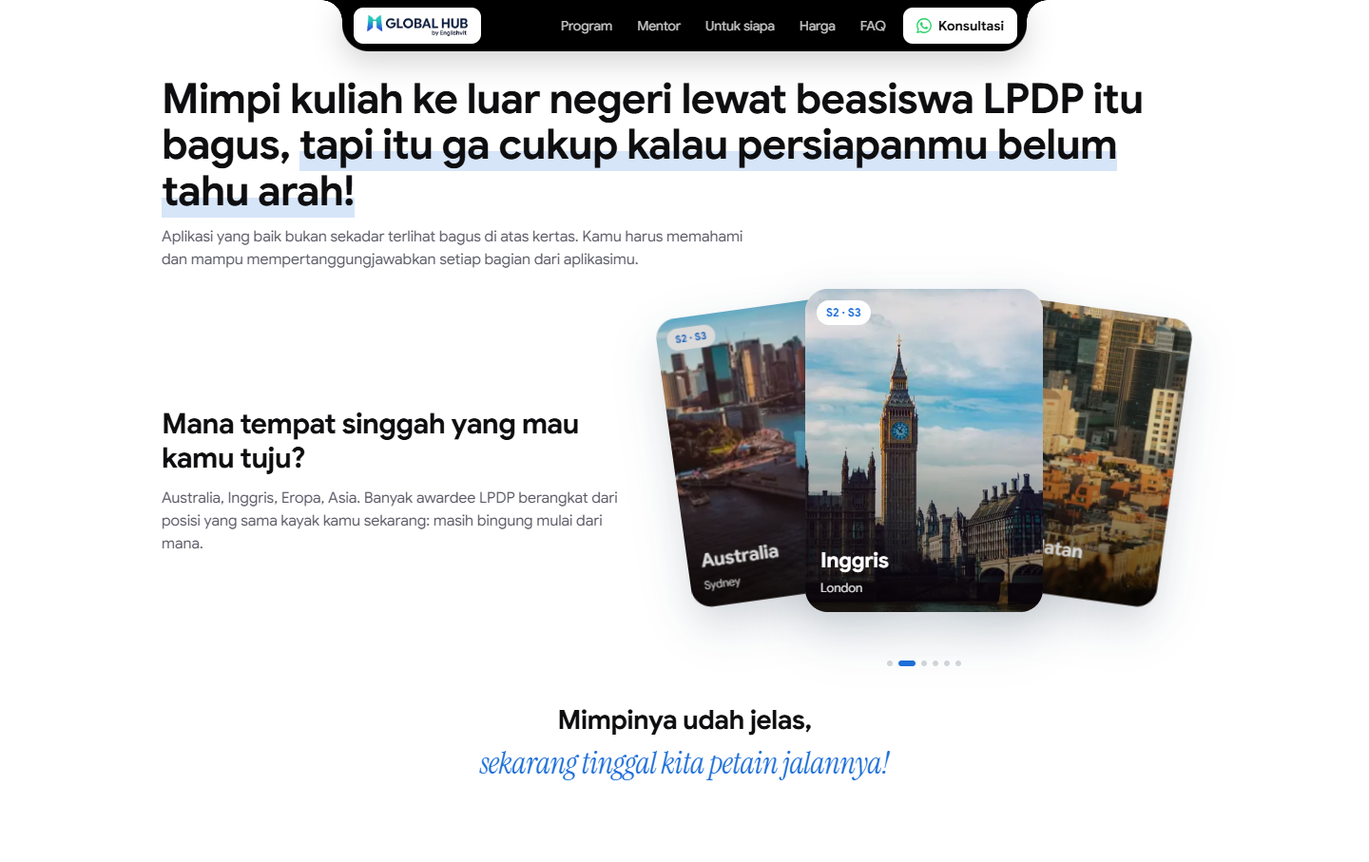
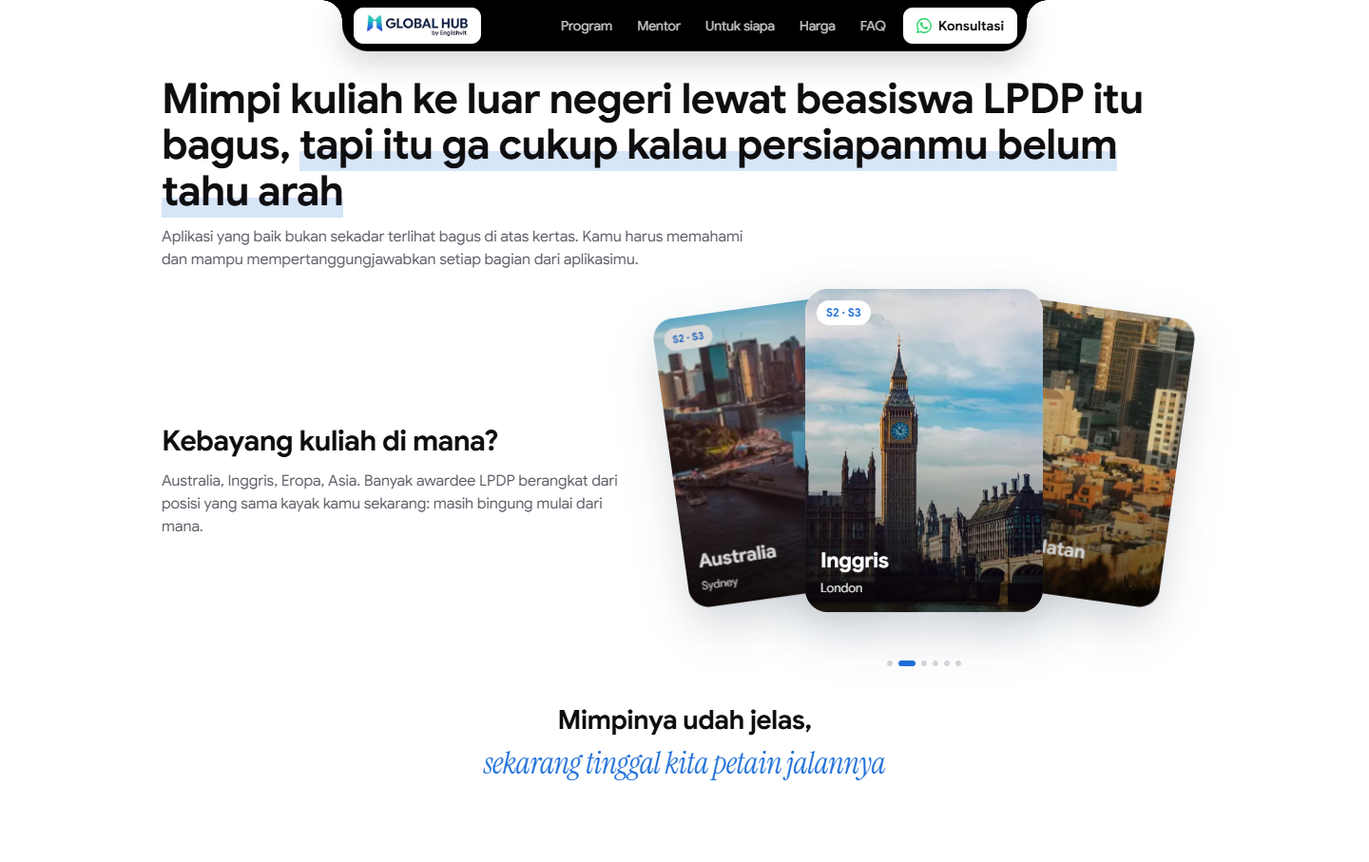
feat(lpdp): copy revision v4 (hero question, no exclamation marks in headings)

diff --git a/schoboot/index.html b/schoboot/index.html
@@ -780,6 +780,10 @@ footer p + p{margin-top:6px}
 .mimpi__head{margin-bottom:26px}
 .mimpi__head .lead{max-width:640px}
 .dest__h{font-size:clamp(22px,5.6vw,30px);line-height:1.2;font-weight:700;letter-spacing:-.02em;color:var(--ink);margin:0}
+
+/* Hero v4: baris kedua headline lebih kecil (kalimat panjang) */
+.h1 .line--sm{font-size:.6em;line-height:1.12;margin-top:.35em;max-width:16em;margin-left:auto;margin-right:auto}
+.rm-hint{justify-content:flex-start}
 </style>
 </head>
 <body data-variant="LPDP-BOOTCAMP">
@@ -822,9 +826,9 @@ footer p + p{margin-top:6px}
   <!-- Video burung sementara dilepas (permintaan tim). File media/birds*.mp4 dan script-nya masih ada; untuk memasang lagi, kembalikan <video class="hero__birds" muted loop playsinline preload="none" aria-hidden="true" tabindex="-1" data-src="media/birds.mp4"></video> di sini. -->
   <div class="wrap hero__inner">
     <span class="eyebrow eyebrow--hero"><i></i>LPDP Preparation Bootcamp · Januari 2027</span>
-    <h1 class="h1" id="h1" aria-label="Beasiswa LPDP 2027 akan datang, mulai persiapanmu dari sekarang!">
-      <span class="line">Beasiswa LPDP 2027 akan datang,</span>
-      <span class="line line--serif">mulai persiapanmu dari sekarang!</span>
+    <h1 class="h1" id="h1" aria-label="Kenapa harus kamu? Kalau panelis beasiswa LPDP tanya gitu, kamu udah ada jawabannya?">
+      <span class="line">"Kenapa harus kamu?"</span>
+      <span class="line line--serif line--sm">Kalau panelis beasiswa LPDP tanya gitu, kamu udah ada jawabannya?</span>
     </h1>
     <script>
     /* Varian tombol ?btn=orange, lalu headline "diketik": huruf muncul satu per satu (fade) dengan kursor berkedip.
@@ -877,8 +881,7 @@ footer p + p{margin-top:6px}
 <section class="sec sec--sunset" id="info">
   <div class="wrap fade-up">
     <p class="jr__eyebrow">More than scholarship information</p>
-    <!-- TODO [V]: angka "99%" belum ada sumbernya. Ganti dengan data resmi atau hapus angkanya sebelum dipakai di iklan. -->
-    <h2 class="h2 reveal">99% Kandidat Gagal Karena <span class="hl">Kurang Persiapan Yang Matang!</span></h2>
+    <h2 class="h2 reveal">Banyak kandidat gagal karena <span class="hl">persiapannya kurang matang</span></h2>
     <p class="jr__sub">Udah nonton belasan video "tips lolos LPDP", simpan puluhan postingan, tapi pas mau mulai tetap bingung: esai dulu, skor bahasa dulu, atau surat rekomendasi dulu? Mulai perjalananmu, pelajari lebih detail!</p>
 
     <div class="jr" data-jr data-dir="right">
@@ -886,7 +889,7 @@ footer p + p{margin-top:6px}
         <div class="jr__stage" role="tablist" aria-label="4 hal yang bikin kandidat LPDP belum siap">
           <svg class="jr__art" viewBox="0 0 600 560" aria-hidden="true" focusable="false"><defs><linearGradient id="jrFill" x1="0" y1="1" x2="1" y2="0"><stop offset="0" stop-color="#1E88E5"/><stop offset="1" stop-color="#14B8A6"/></linearGradient><pattern id="jrDots" width="20" height="20" patternUnits="userSpaceOnUse"><circle cx="2" cy="2" r="1.2" fill="#C9DCF3"/></pattern></defs><rect width="600" height="560" fill="url(#jrDots)" opacity=".7"/><path d="M-20,420 C80,370 170,450 280,420 C380,390 420,470 620,430 L620,580 L-20,580 Z" fill="#E3F4EA"/><path d="M380,510 C460,540 560,520 620,480 L620,360 C560,340 470,370 420,400 C380,430 350,490 380,510 Z" fill="#FFF3D6"/><path d="M40,170 C60,120 150,110 190,150 C230,190 200,250 140,256 C80,262 24,220 40,170 Z" fill="#EAF3FF"/><g transform="translate(120,196) scale(0.75)" fill="#fff" opacity="1"><ellipse rx="46" ry="16"/><circle cx="-15" cy="-9" r="18"/><circle cx="14" cy="-14" r="22"/></g><ellipse cx="500" cy="462" rx="70" ry="20" fill="#CDEBD8"/><g transform="translate(500,460)"><rect x="-3" y="-66" width="6" height="68" rx="3" fill="#0B2545"/><path class="jr-flag" d="M3,-64 L46,-53 L3,-42 Z" fill="#FDB913" stroke="#0B2545" stroke-width="2" stroke-linejoin="round"/></g><g transform="translate(150,90) scale(0.7)" fill="#fff" opacity="1"><ellipse rx="46" ry="16"/><circle cx="-15" cy="-9" r="18"/><circle cx="14" cy="-14" r="22"/></g><g transform="translate(560,250) scale(0.55)" fill="#fff" opacity="1"><ellipse rx="46" ry="16"/><circle cx="-15" cy="-9" r="18"/><circle cx="14" cy="-14" r="22"/></g><path d="M230,82 l26,-9 l-14,15 z M242,88 l-3,7 l-2,-9 z" fill="#fff" stroke="#0B2545" stroke-width="1.6" stroke-linejoin="round" opacity=".8"/><path d="M214,94 C200,100 190,112 176,116" fill="none" stroke="#0B2545" stroke-width="1.4" stroke-dasharray="3 5" opacity=".4"/><g transform="translate(420,120) scale(0.7)"><path class="jr-tw" d="M0,-10 C1.6,-2 2,-1.6 10,0 C2,1.6 1.6,2 0,10 C-1.6,2 -2,1.6 -10,0 C-2,-1.6 -1.6,-2 0,-10 Z" fill="#FDB913"/></g><g transform="translate(90,320) scale(0.5)"><path class="jr-tw2" d="M0,-10 C1.6,-2 2,-1.6 10,0 C2,1.6 1.6,2 0,10 C-1.6,2 -2,1.6 -10,0 C-2,-1.6 -1.6,-2 0,-10 Z" fill="#FF8040"/></g><g transform="translate(560,380) scale(0.55)"><path class="jr-tw2" d="M0,-10 C1.6,-2 2,-1.6 10,0 C2,1.6 1.6,2 0,10 C-1.6,2 -2,1.6 -10,0 C-2,-1.6 -1.6,-2 0,-10 Z" fill="#FDB913"/></g><path d="M60,92 C76.5,105.2 98.3,160 150,164 C201.7,168 282.6,96.4 342,114 C401.4,131.6 482.4,214.2 474,260 C465.6,305.8 291.2,325.9 296,364 C300.8,402.1 462.6,448.9 500,468" fill="none" stroke="#fff" stroke-width="20" stroke-linecap="round" stroke-linejoin="round"/><path d="M60,92 C76.5,105.2 98.3,160 150,164 C201.7,168 282.6,96.4 342,114 C401.4,131.6 482.4,214.2 474,260 C465.6,305.8 291.2,325.9 296,364 C300.8,402.1 462.6,448.9 500,468" fill="none" stroke="#C9DCF3" stroke-width="4" stroke-dasharray="2 10" stroke-linecap="round"/><path d="M60,92 C76.5,105.2 98.3,160 150,164 C201.7,168 282.6,96.4 342,114 C401.4,131.6 482.4,214.2 474,260 C465.6,305.8 291.2,325.9 296,364 C300.8,402.1 462.6,448.9 500,468" class="jr__progress" data-jr-road fill="none" stroke="url(#jrFill)" stroke-width="6" stroke-linecap="round"/><style>.jr-tw{animation:jrTw 2.4s ease-in-out infinite;transform-box:fill-box;transform-origin:center}.jr-tw2{animation:jrTw 2.4s ease-in-out -1.2s infinite;transform-box:fill-box;transform-origin:center}@keyframes jrTw{0%,100%{opacity:.35;transform:scale(.7)}50%{opacity:1;transform:scale(1)}}.jr-flag{animation:jrWave 1.6s ease-in-out infinite;transform-box:fill-box;transform-origin:left center}@keyframes jrWave{50%{transform:skewY(-6deg) scaleX(.92)}}</style></svg>
           <div class="jr__start" style="--x:10.00%;--y:16.43%"><span>Mulai jalan dari mana?</span></div>
-          <div class="jr__finish" style="--x:83.33%;--y:83.57%"><span>Tujuan akhir,<br>lolos seleksi<br>beasiswa <em>LPDP!</em></span></div>
+          <div class="jr__finish" style="--x:83.33%;--y:83.57%"><span>Siap daftar<br><em>LPDP 2027!</em></span></div>
           <button type="button" class="jr__stop jr__stop--below" style="--x:25.00%;--y:29.29%" data-step="0" role="tab" id="jr-tab-0" aria-controls="jr-panel" aria-selected="false" tabindex="0"><span class="jr__sticker" aria-hidden="true"><svg viewBox="0 0 24 24" width="24" height="24"><path d="M4 5.5C6.5 4 9.5 4 12 6c2.5-2 5.5-2 8-.5V19c-2.5-1.5-5.5-1.5-8 .5-2.5-2-5.5-2-8-.5z" fill="none" stroke="currentColor" stroke-width="2.2" stroke-linejoin="round"/><path d="M12 6v13.5" stroke="currentColor" stroke-width="2.2"/></svg><i>01</i></span><span class="jr__label">Program studi</span></button>
 <button type="button" class="jr__stop jr__stop--above" style="--x:57.00%;--y:20.36%" data-step="1" role="tab" id="jr-tab-1" aria-controls="jr-panel" aria-selected="false" tabindex="-1"><span class="jr__sticker" aria-hidden="true"><svg viewBox="0 0 24 24" width="24" height="24"><path d="M4 20l1-4L16 5l3 3L8 19z" fill="none" stroke="currentColor" stroke-width="2.2" stroke-linejoin="round"/><path d="M14 7l3 3M4 20h16" stroke="currentColor" stroke-width="2.2" stroke-linecap="round"/></svg><i>02</i></span><span class="jr__label">Esai</span></button>
 <button type="button" class="jr__stop jr__stop--left" style="--x:79.00%;--y:46.43%" data-step="2" role="tab" id="jr-tab-2" aria-controls="jr-panel" aria-selected="false" tabindex="-1"><span class="jr__sticker" aria-hidden="true"><svg viewBox="0 0 24 24" width="24" height="24"><path d="M12 3l2.6 5.6 6 .7-4.5 4.1 1.2 6L12 16.4 6.7 19.4l1.2-6L3.4 9.3l6-.7z" fill="currentColor"/></svg><i>03</i></span><span class="jr__label">Pengalaman</span></button>
@@ -917,12 +920,12 @@ footer p + p{margin-top:6px}
 <!-- Section 3 (mimpi): sesudah masalah, sebelum peta 4 sesi. Kalimat jembatan di bawah mengarah ke peta program. -->
 <section class="sec sec--sea" id="mimpi" aria-labelledby="mimpi-title">
   <div class="wrap fade-up mimpi__head">
-    <h2 class="h2 reveal" id="mimpi-title">Mimpi kuliah ke luar negeri lewat beasiswa LPDP itu bagus, <span class="hl">tapi itu ga cukup kalau persiapanmu belum tahu arah!</span></h2>
+    <h2 class="h2 reveal" id="mimpi-title">Mimpi kuliah ke luar negeri lewat beasiswa LPDP itu bagus, <span class="hl">tapi itu ga cukup kalau persiapanmu belum tahu arah</span></h2>
     <p class="lead">Aplikasi yang baik bukan sekadar terlihat bagus di atas kertas. Kamu harus memahami dan mampu mempertanggungjawabkan setiap bagian dari aplikasimu.</p>
   </div>
   <div class="wrap fade-up dest">
     <div>
-      <h3 class="dest__h reveal" id="dest-title">Mana tempat singgah yang mau kamu tuju?</h3>
+      <h3 class="dest__h reveal" id="dest-title">Kebayang kuliah di mana?</h3>
       <p class="lead">Australia, Inggris, Eropa, Asia. Banyak awardee LPDP berangkat dari posisi yang sama kayak kamu sekarang: masih bingung mulai dari mana.</p>
     </div>
     <div>
@@ -938,7 +941,7 @@ footer p + p{margin-top:6px}
     </div>
   </div>
   <!-- Kalimat jembatan ke peta 4 sesi (#program) -->
-  <p class="wrap bridge reveal">Mimpinya udah jelas, <span>sekarang tinggal kita petain jalannya!</span></p>
+  <p class="wrap bridge reveal">Mimpinya udah jelas, <span>sekarang tinggal kita petain jalannya</span></p>
 </section>
 <!-- /§destinations -->
 
@@ -947,8 +950,9 @@ footer p + p{margin-top:6px}
      klik kartu/pin untuk buka detail (popover di desktop, bottom sheet di HP), titik "Kamu di sini" berjalan ke sesi yang dipilih. -->
 <section class="sec" id="program">
   <div class="wrap fade-up">
-    <h2 class="h2 reveal">Kita bantu kamu mewujudkan mimpi kuliah di negara maju itu!</h2>
-    <p class="rm-hint"><span aria-hidden="true">?</span>Mulai perjalananmu buat lihat isi sesinya dan apa yang kamu bawa pulang.</p>
+    <!-- Judul section dihapus (permintaan tim): kalimat jembatan di akhir section 3 jadi pembuka. Judul tetap ada untuk pembaca layar. -->
+    <h2 class="sr">Isi 4 sesi LPDP Preparation Bootcamp</h2>
+    <p class="rm-hint">Mulai perjalananmu buat lihat isi sesinya dan apa yang kamu bawa pulang.</p>
     <!--
       Judul, tanggal & isi 4 sesi dari dokumen "Revision copy per section" (turunan poster PM "LPDP Preparation in January 2027").
       TODO [V] kurikulum: "Mengenal seleksi substansi" dan "Persiapan menghadapi pertanyaan seleksi" dipindah dari Sesi 3 ke Sesi 4
@@ -1110,7 +1114,7 @@ footer p + p{margin-top:6px}
         </ul>
         <!-- TODO [V]: minta mentor review tips ini -->
         <div class="rm-tip"><span class="rm-tip__q">Contoh pertanyaan: "Kenapa kamu memilih jurusan ini?"</span><span class="rm-tip__a"><b>Tips:</b> hubungkan ke masalah nyata yang pernah kamu temui, bukan cuma minat pribadi.</span></div>
-        <p class="rm-take"><b>Kamu bawa pulang:</b> Bekal persiapan wawancara dari awardee yang pernah duduk di bangku kuliah yang sama.</p>
+        <p class="rm-take"><b>Kamu bawa pulang:</b> Bekal persiapan wawancara dari awardee yang pernah duduk di kursi wawancara yang sama.</p>
       </div>
     </div>
   </div>
@@ -1169,7 +1173,7 @@ footer p + p{margin-top:6px}
 <!-- §mentor -->
 <section class="sec sec--white" id="mentor">
   <div class="wrap fade-up">
-    <h2 class="h2 reveal">Dipandu mentor awardee LPDP langsung!</h2>
+    <h2 class="h2 reveal">Dipandu mentor awardee LPDP langsung</h2>
     <p class="lead">Mereka pernah bingung milih program studi, nulis ulang esai, dan deg-degan nunggu hasil seleksi. Sekarang mereka yang bantu kamu nyiapinnya.</p>
     <!-- Data mentor dari globalhub.id/mentors (program Study Abroad, label "LPDP Awardee" sesuai situs resmi). Logo LPDP sengaja tidak dipakai, cukup teks.
          TODO [V]: mentor mana yang benar-benar memandu SchoBoot, dan izin tampil di halaman ini. -->
@@ -1191,7 +1195,7 @@ footer p + p{margin-top:6px}
   <div class="wrap fade-up">
     <!-- Ilustrasi persona (SVG animasi dari tim, dipasang lewat <img>). Desktop: kartu miring mengikuti kursor; HP: geser dengan indikator titik. -->
     <h2 class="h2 reveal">Sekarang kamu di posisi yang mana?</h2>
-    <p class="lead">Scholarship bootcamp LPDP preparation dibikin buat kamu yang…</p>
+    <p class="lead">LPDP Preparation Bootcamp dibikin buat kamu yang…</p>
     <div class="personas">
       <article class="persona reveal">
         <div class="persona__art"><img src="media/persona/persona-1-baru-mulai.svg" width="480" height="300" alt="" loading="lazy" decoding="async"></div>
@@ -1315,7 +1319,7 @@ footer p + p{margin-top:6px}
   <div class="wrap fade-up">
     <h2 class="h2 reveal">Yang sering ditanyain</h2>
     <div class="faq">
-      <details><summary>Ini program resmi LPDP?</summary><p>Bukan. Scholarship Bootcamp LPDP Preparation adalah program persiapan dari Global Hub by Englishvit, buat bantu kamu ningkatin peluang lolos seleksi beasiswa LPDP 2027. Global Hub tidak berafiliasi dengan LPDP.</p></details>
+      <details><summary>Ini program resmi LPDP?</summary><p>Bukan. LPDP Preparation Bootcamp adalah program persiapan dari Global Hub by Englishvit, buat bantu kamu nyiapin aplikasi LPDP dengan urutan yang jelas. Global Hub tidak berafiliasi dengan LPDP.</p></details>
       <details><summary>Kapan kelasnya?</summary><p>Selasa 12 Jan 2027, Kamis 14 Jan 2027, Selasa 19 Jan 2027, dan Kamis 21 Jan 2027. Tiap sesi berdurasi 60 menit.</p></details>
       <details><summary>Kelasnya lewat apa?</summary><p>Kelas dilaksanakan melalui Zoom. Link dikirim setelah pembayaranmu terverifikasi.</p></details>
       <details><summary>Kalau nggak bisa hadir?</summary><p>Gausah khawatir, semua sesi direkam jadi kamu bisa nonton ulang kelasnya selama 30 hari.</p></details>
@@ -1334,7 +1338,7 @@ footer p + p{margin-top:6px}
 <!-- §closing -->
 <section class="closing">
   <div class="wrap fade-up">
-    <h2 class="h2">Jangan ragu-ragu ambil persiapan beasiswa LPDP dari sekarang, <span>kuota terbatas!</span></h2>
+    <h2 class="h2">Pendaftaran LPDP 2027 belum dibuka. <span>Persiapanmu bisa dimulai per Januari 2027.</span></h2>
     <p class="closing__sub">Yang mulai lebih awal punya waktu buat benerin esai, ngejar skor, dan latihan wawancara. Yang nunggu pengumuman, ngerjain semuanya sekaligus.</p>
     <!-- Satu CTA saja: konsultasi WhatsApp. Checkout ada di kartu harga. -->
     <a href="#" class="btn btn--wa" data-cta="whatsapp" data-pos="closing-konsultasi" data-msg="Halo kak, aku mau konsultasi dulu soal bootcamp LPDP Global Hub. Aku lagi di tahap ___." data-marketing-placement="closing-konsultasi"><svg width="20" height="20" viewBox="0 0 24 24" fill="currentColor" aria-hidden="true"><path d="M17.47 14.38c-.3-.15-1.76-.87-2.03-.97-.27-.1-.47-.15-.67.15-.2.3-.77.97-.94 1.17-.17.2-.35.22-.65.07-.3-.15-1.26-.46-2.4-1.48-.89-.79-1.49-1.77-1.66-2.07-.17-.3-.02-.46.13-.61.13-.13.3-.35.45-.52.15-.17.2-.3.3-.5.1-.2.05-.37-.03-.52-.07-.15-.67-1.61-.92-2.21-.24-.58-.49-.5-.67-.51h-.57c-.2 0-.52.07-.79.37-.27.3-1.04 1.02-1.04 2.48s1.07 2.88 1.21 3.08c.15.2 2.1 3.2 5.08 4.49.71.31 1.26.49 1.69.63.71.23 1.36.2 1.87.12.57-.09 1.76-.72 2.01-1.41.25-.7.25-1.29.17-1.41-.07-.13-.27-.2-.57-.35zM12.04 21.8h-.01a9.8 9.8 0 0 1-5-1.37l-.36-.21-3.72.98 1-3.63-.24-.37a9.8 9.8 0 0 1-1.5-5.22c0-5.42 4.41-9.83 9.84-9.83 2.63 0 5.1 1.03 6.95 2.88a9.77 9.77 0 0 1 2.88 6.96c0 5.42-4.41 9.83-9.84 9.83zm8.37-18.2A11.75 11.75 0 0 0 12.04.13C5.5.13.18 5.45.18 12c0 2.09.55 4.13 1.59 5.93L.08 24l6.22-1.63a11.83 11.83 0 0 0 5.73 1.46h.01c6.54 0 11.86-5.32 11.87-11.87a11.8 11.8 0 0 0-3.5-8.37z"/></svg>Konsultasi dulu!</a>

diff --git a/src/schoboot.html b/src/schoboot.html
@@ -61,9 +61,9 @@
   <!-- Video burung sementara dilepas (permintaan tim). File media/birds*.mp4 dan script-nya masih ada; untuk memasang lagi, kembalikan <video class="hero__birds" muted loop playsinline preload="none" aria-hidden="true" tabindex="-1" data-src="media/birds.mp4"></video> di sini. -->
   <div class="wrap hero__inner">
     <span class="eyebrow eyebrow--hero"><i></i>LPDP Preparation Bootcamp · Januari 2027</span>
-    <h1 class="h1" id="h1" aria-label="Beasiswa LPDP 2027 akan datang, mulai persiapanmu dari sekarang!">
-      <span class="line">Beasiswa LPDP 2027 akan datang,</span>
-      <span class="line line--serif">mulai persiapanmu dari sekarang!</span>
+    <h1 class="h1" id="h1" aria-label="Kenapa harus kamu? Kalau panelis beasiswa LPDP tanya gitu, kamu udah ada jawabannya?">
+      <span class="line">"Kenapa harus kamu?"</span>
+      <span class="line line--serif line--sm">Kalau panelis beasiswa LPDP tanya gitu, kamu udah ada jawabannya?</span>
     </h1>
     <script>
     /* Varian tombol ?btn=orange, lalu headline "diketik": huruf muncul satu per satu (fade) dengan kursor berkedip.
@@ -116,8 +116,7 @@
 <section class="sec sec--sunset" id="info">
   <div class="wrap fade-up">
     <p class="jr__eyebrow">More than scholarship information</p>
-    <!-- TODO [V]: angka "99%" belum ada sumbernya. Ganti dengan data resmi atau hapus angkanya sebelum dipakai di iklan. -->
-    <h2 class="h2 reveal">99% Kandidat Gagal Karena <span class="hl">Kurang Persiapan Yang Matang!</span></h2>
+    <h2 class="h2 reveal">Banyak kandidat gagal karena <span class="hl">persiapannya kurang matang</span></h2>
     <p class="jr__sub">Udah nonton belasan video "tips lolos LPDP", simpan puluhan postingan, tapi pas mau mulai tetap bingung: esai dulu, skor bahasa dulu, atau surat rekomendasi dulu? Mulai perjalananmu, pelajari lebih detail!</p>
 
     <div class="jr" data-jr data-dir="right">
@@ -125,7 +124,7 @@
         <div class="jr__stage" role="tablist" aria-label="4 hal yang bikin kandidat LPDP belum siap">
           <svg class="jr__art" viewBox="0 0 600 560" aria-hidden="true" focusable="false"><defs><linearGradient id="jrFill" x1="0" y1="1" x2="1" y2="0"><stop offset="0" stop-color="#1E88E5"/><stop offset="1" stop-color="#14B8A6"/></linearGradient><pattern id="jrDots" width="20" height="20" patternUnits="userSpaceOnUse"><circle cx="2" cy="2" r="1.2" fill="#C9DCF3"/></pattern></defs><rect width="600" height="560" fill="url(#jrDots)" opacity=".7"/><path d="M-20,420 C80,370 170,450 280,420 C380,390 420,470 620,430 L620,580 L-20,580 Z" fill="#E3F4EA"/><path d="M380,510 C460,540 560,520 620,480 L620,360 C560,340 470,370 420,400 C380,430 350,490 380,510 Z" fill="#FFF3D6"/><path d="M40,170 C60,120 150,110 190,150 C230,190 200,250 140,256 C80,262 24,220 40,170 Z" fill="#EAF3FF"/><g transform="translate(120,196) scale(0.75)" fill="#fff" opacity="1"><ellipse rx="46" ry="16"/><circle cx="-15" cy="-9" r="18"/><circle cx="14" cy="-14" r="22"/></g><ellipse cx="500" cy="462" rx="70" ry="20" fill="#CDEBD8"/><g transform="translate(500,460)"><rect x="-3" y="-66" width="6" height="68" rx="3" fill="#0B2545"/><path class="jr-flag" d="M3,-64 L46,-53 L3,-42 Z" fill="#FDB913" stroke="#0B2545" stroke-width="2" stroke-linejoin="round"/></g><g transform="translate(150,90) scale(0.7)" fill="#fff" opacity="1"><ellipse rx="46" ry="16"/><circle cx="-15" cy="-9" r="18"/><circle cx="14" cy="-14" r="22"/></g><g transform="translate(560,250) scale(0.55)" fill="#fff" opacity="1"><ellipse rx="46" ry="16"/><circle cx="-15" cy="-9" r="18"/><circle cx="14" cy="-14" r="22"/></g><path d="M230,82 l26,-9 l-14,15 z M242,88 l-3,7 l-2,-9 z" fill="#fff" stroke="#0B2545" stroke-width="1.6" stroke-linejoin="round" opacity=".8"/><path d="M214,94 C200,100 190,112 176,116" fill="none" stroke="#0B2545" stroke-width="1.4" stroke-dasharray="3 5" opacity=".4"/><g transform="translate(420,120) scale(0.7)"><path class="jr-tw" d="M0,-10 C1.6,-2 2,-1.6 10,0 C2,1.6 1.6,2 0,10 C-1.6,2 -2,1.6 -10,0 C-2,-1.6 -1.6,-2 0,-10 Z" fill="#FDB913"/></g><g transform="translate(90,320) scale(0.5)"><path class="jr-tw2" d="M0,-10 C1.6,-2 2,-1.6 10,0 C2,1.6 1.6,2 0,10 C-1.6,2 -2,1.6 -10,0 C-2,-1.6 -1.6,-2 0,-10 Z" fill="#FF8040"/></g><g transform="translate(560,380) scale(0.55)"><path class="jr-tw2" d="M0,-10 C1.6,-2 2,-1.6 10,0 C2,1.6 1.6,2 0,10 C-1.6,2 -2,1.6 -10,0 C-2,-1.6 -1.6,-2 0,-10 Z" fill="#FDB913"/></g><path d="M60,92 C76.5,105.2 98.3,160 150,164 C201.7,168 282.6,96.4 342,114 C401.4,131.6 482.4,214.2 474,260 C465.6,305.8 291.2,325.9 296,364 C300.8,402.1 462.6,448.9 500,468" fill="none" stroke="#fff" stroke-width="20" stroke-linecap="round" stroke-linejoin="round"/><path d="M60,92 C76.5,105.2 98.3,160 150,164 C201.7,168 282.6,96.4 342,114 C401.4,131.6 482.4,214.2 474,260 C465.6,305.8 291.2,325.9 296,364 C300.8,402.1 462.6,448.9 500,468" fill="none" stroke="#C9DCF3" stroke-width="4" stroke-dasharray="2 10" stroke-linecap="round"/><path d="M60,92 C76.5,105.2 98.3,160 150,164 C201.7,168 282.6,96.4 342,114 C401.4,131.6 482.4,214.2 474,260 C465.6,305.8 291.2,325.9 296,364 C300.8,402.1 462.6,448.9 500,468" class="jr__progress" data-jr-road fill="none" stroke="url(#jrFill)" stroke-width="6" stroke-linecap="round"/><style>.jr-tw{animation:jrTw 2.4s ease-in-out infinite;transform-box:fill-box;transform-origin:center}.jr-tw2{animation:jrTw 2.4s ease-in-out -1.2s infinite;transform-box:fill-box;transform-origin:center}@keyframes jrTw{0%,100%{opacity:.35;transform:scale(.7)}50%{opacity:1;transform:scale(1)}}.jr-flag{animation:jrWave 1.6s ease-in-out infinite;transform-box:fill-box;transform-origin:left center}@keyframes jrWave{50%{transform:skewY(-6deg) scaleX(.92)}}</style></svg>
           <div class="jr__start" style="--x:10.00%;--y:16.43%"><span>Mulai jalan dari mana?</span></div>
-          <div class="jr__finish" style="--x:83.33%;--y:83.57%"><span>Tujuan akhir,<br>lolos seleksi<br>beasiswa <em>LPDP!</em></span></div>
+          <div class="jr__finish" style="--x:83.33%;--y:83.57%"><span>Siap daftar<br><em>LPDP 2027!</em></span></div>
           <button type="button" class="jr__stop jr__stop--below" style="--x:25.00%;--y:29.29%" data-step="0" role="tab" id="jr-tab-0" aria-controls="jr-panel" aria-selected="false" tabindex="0"><span class="jr__sticker" aria-hidden="true"><svg viewBox="0 0 24 24" width="24" height="24"><path d="M4 5.5C6.5 4 9.5 4 12 6c2.5-2 5.5-2 8-.5V19c-2.5-1.5-5.5-1.5-8 .5-2.5-2-5.5-2-8-.5z" fill="none" stroke="currentColor" stroke-width="2.2" stroke-linejoin="round"/><path d="M12 6v13.5" stroke="currentColor" stroke-width="2.2"/></svg><i>01</i></span><span class="jr__label">Program studi</span></button>
 <button type="button" class="jr__stop jr__stop--above" style="--x:57.00%;--y:20.36%" data-step="1" role="tab" id="jr-tab-1" aria-controls="jr-panel" aria-selected="false" tabindex="-1"><span class="jr__sticker" aria-hidden="true"><svg viewBox="0 0 24 24" width="24" height="24"><path d="M4 20l1-4L16 5l3 3L8 19z" fill="none" stroke="currentColor" stroke-width="2.2" stroke-linejoin="round"/><path d="M14 7l3 3M4 20h16" stroke="currentColor" stroke-width="2.2" stroke-linecap="round"/></svg><i>02</i></span><span class="jr__label">Esai</span></button>
 <button type="button" class="jr__stop jr__stop--left" style="--x:79.00%;--y:46.43%" data-step="2" role="tab" id="jr-tab-2" aria-controls="jr-panel" aria-selected="false" tabindex="-1"><span class="jr__sticker" aria-hidden="true"><svg viewBox="0 0 24 24" width="24" height="24"><path d="M12 3l2.6 5.6 6 .7-4.5 4.1 1.2 6L12 16.4 6.7 19.4l1.2-6L3.4 9.3l6-.7z" fill="currentColor"/></svg><i>03</i></span><span class="jr__label">Pengalaman</span></button>
@@ -156,12 +155,12 @@
 <!-- Section 3 (mimpi): sesudah masalah, sebelum peta 4 sesi. Kalimat jembatan di bawah mengarah ke peta program. -->
 <section class="sec sec--sea" id="mimpi" aria-labelledby="mimpi-title">
   <div class="wrap fade-up mimpi__head">
-    <h2 class="h2 reveal" id="mimpi-title">Mimpi kuliah ke luar negeri lewat beasiswa LPDP itu bagus, <span class="hl">tapi itu ga cukup kalau persiapanmu belum tahu arah!</span></h2>
+    <h2 class="h2 reveal" id="mimpi-title">Mimpi kuliah ke luar negeri lewat beasiswa LPDP itu bagus, <span class="hl">tapi itu ga cukup kalau persiapanmu belum tahu arah</span></h2>
     <p class="lead">Aplikasi yang baik bukan sekadar terlihat bagus di atas kertas. Kamu harus memahami dan mampu mempertanggungjawabkan setiap bagian dari aplikasimu.</p>
   </div>
   <div class="wrap fade-up dest">
     <div>
-      <h3 class="dest__h reveal" id="dest-title">Mana tempat singgah yang mau kamu tuju?</h3>
+      <h3 class="dest__h reveal" id="dest-title">Kebayang kuliah di mana?</h3>
       <p class="lead">Australia, Inggris, Eropa, Asia. Banyak awardee LPDP berangkat dari posisi yang sama kayak kamu sekarang: masih bingung mulai dari mana.</p>
     </div>
     <div>
@@ -177,7 +176,7 @@
     </div>
   </div>
   <!-- Kalimat jembatan ke peta 4 sesi (#program) -->
-  <p class="wrap bridge reveal">Mimpinya udah jelas, <span>sekarang tinggal kita petain jalannya!</span></p>
+  <p class="wrap bridge reveal">Mimpinya udah jelas, <span>sekarang tinggal kita petain jalannya</span></p>
 </section>
 <!-- /§destinations -->
 
@@ -186,8 +185,9 @@
      klik kartu/pin untuk buka detail (popover di desktop, bottom sheet di HP), titik "Kamu di sini" berjalan ke sesi yang dipilih. -->
 <section class="sec" id="program">
   <div class="wrap fade-up">
-    <h2 class="h2 reveal">Kita bantu kamu mewujudkan mimpi kuliah di negara maju itu!</h2>
-    <p class="rm-hint"><span aria-hidden="true">?</span>Mulai perjalananmu buat lihat isi sesinya dan apa yang kamu bawa pulang.</p>
+    <!-- Judul section dihapus (permintaan tim): kalimat jembatan di akhir section 3 jadi pembuka. Judul tetap ada untuk pembaca layar. -->
+    <h2 class="sr">Isi 4 sesi LPDP Preparation Bootcamp</h2>
+    <p class="rm-hint">Mulai perjalananmu buat lihat isi sesinya dan apa yang kamu bawa pulang.</p>
     <!--
       Judul, tanggal & isi 4 sesi dari dokumen "Revision copy per section" (turunan poster PM "LPDP Preparation in January 2027").
       TODO [V] kurikulum: "Mengenal seleksi substansi" dan "Persiapan menghadapi pertanyaan seleksi" dipindah dari Sesi 3 ke Sesi 4
@@ -349,7 +349,7 @@
         </ul>
         <!-- TODO [V]: minta mentor review tips ini -->
         <div class="rm-tip"><span class="rm-tip__q">Contoh pertanyaan: "Kenapa kamu memilih jurusan ini?"</span><span class="rm-tip__a"><b>Tips:</b> hubungkan ke masalah nyata yang pernah kamu temui, bukan cuma minat pribadi.</span></div>
-        <p class="rm-take"><b>Kamu bawa pulang:</b> Bekal persiapan wawancara dari awardee yang pernah duduk di bangku kuliah yang sama.</p>
+        <p class="rm-take"><b>Kamu bawa pulang:</b> Bekal persiapan wawancara dari awardee yang pernah duduk di kursi wawancara yang sama.</p>
       </div>
     </div>
   </div>
@@ -408,7 +408,7 @@
 <!-- §mentor -->
 <section class="sec sec--white" id="mentor">
   <div class="wrap fade-up">
-    <h2 class="h2 reveal">Dipandu mentor awardee LPDP langsung!</h2>
+    <h2 class="h2 reveal">Dipandu mentor awardee LPDP langsung</h2>
     <p class="lead">Mereka pernah bingung milih program studi, nulis ulang esai, dan deg-degan nunggu hasil seleksi. Sekarang mereka yang bantu kamu nyiapinnya.</p>
     <!-- Data mentor dari globalhub.id/mentors (program Study Abroad, label "LPDP Awardee" sesuai situs resmi). Logo LPDP sengaja tidak dipakai, cukup teks.
          TODO [V]: mentor mana yang benar-benar memandu SchoBoot, dan izin tampil di halaman ini. -->
@@ -430,7 +430,7 @@
   <div class="wrap fade-up">
     <!-- Ilustrasi persona (SVG animasi dari tim, dipasang lewat <img>). Desktop: kartu miring mengikuti kursor; HP: geser dengan indikator titik. -->
     <h2 class="h2 reveal">Sekarang kamu di posisi yang mana?</h2>
-    <p class="lead">Scholarship bootcamp LPDP preparation dibikin buat kamu yang…</p>
+    <p class="lead">LPDP Preparation Bootcamp dibikin buat kamu yang…</p>
     <div class="personas">
       <article class="persona reveal">
         <div class="persona__art"><img src="media/persona/persona-1-baru-mulai.svg" width="480" height="300" alt="" loading="lazy" decoding="async"></div>
@@ -554,7 +554,7 @@
   <div class="wrap fade-up">
     <h2 class="h2 reveal">Yang sering ditanyain</h2>
     <div class="faq">
-      <details><summary>Ini program resmi LPDP?</summary><p>Bukan. Scholarship Bootcamp LPDP Preparation adalah program persiapan dari Global Hub by Englishvit, buat bantu kamu ningkatin peluang lolos seleksi beasiswa LPDP 2027. Global Hub tidak berafiliasi dengan LPDP.</p></details>
+      <details><summary>Ini program resmi LPDP?</summary><p>Bukan. LPDP Preparation Bootcamp adalah program persiapan dari Global Hub by Englishvit, buat bantu kamu nyiapin aplikasi LPDP dengan urutan yang jelas. Global Hub tidak berafiliasi dengan LPDP.</p></details>
       <details><summary>Kapan kelasnya?</summary><p>Selasa 12 Jan 2027, Kamis 14 Jan 2027, Selasa 19 Jan 2027, dan Kamis 21 Jan 2027. Tiap sesi berdurasi 60 menit.</p></details>
       <details><summary>Kelasnya lewat apa?</summary><p>Kelas dilaksanakan melalui Zoom. Link dikirim setelah pembayaranmu terverifikasi.</p></details>
       <details><summary>Kalau nggak bisa hadir?</summary><p>Gausah khawatir, semua sesi direkam jadi kamu bisa nonton ulang kelasnya selama 30 hari.</p></details>
@@ -573,7 +573,7 @@
 <!-- §closing -->
 <section class="closing">
   <div class="wrap fade-up">
-    <h2 class="h2">Jangan ragu-ragu ambil persiapan beasiswa LPDP dari sekarang, <span>kuota terbatas!</span></h2>
+    <h2 class="h2">Pendaftaran LPDP 2027 belum dibuka. <span>Persiapanmu bisa dimulai per Januari 2027.</span></h2>
     <p class="closing__sub">Yang mulai lebih awal punya waktu buat benerin esai, ngejar skor, dan latihan wawancara. Yang nunggu pengumuman, ngerjain semuanya sekaligus.</p>
     <!-- Satu CTA saja: konsultasi WhatsApp. Checkout ada di kartu harga. -->
     <a href="#" class="btn btn--wa" data-cta="whatsapp" data-pos="closing-konsultasi" data-msg="Halo kak, aku mau konsultasi dulu soal bootcamp LPDP Global Hub. Aku lagi di tahap ___." data-marketing-placement="closing-konsultasi"><svg width="20" height="20" viewBox="0 0 24 24" fill="currentColor" aria-hidden="true"><path d="M17.47 14.38c-.3-.15-1.76-.87-2.03-.97-.27-.1-.47-.15-.67.15-.2.3-.77.97-.94 1.17-.17.2-.35.22-.65.07-.3-.15-1.26-.46-2.4-1.48-.89-.79-1.49-1.77-1.66-2.07-.17-.3-.02-.46.13-.61.13-.13.3-.35.45-.52.15-.17.2-.3.3-.5.1-.2.05-.37-.03-.52-.07-.15-.67-1.61-.92-2.21-.24-.58-.49-.5-.67-.51h-.57c-.2 0-.52.07-.79.37-.27.3-1.04 1.02-1.04 2.48s1.07 2.88 1.21 3.08c.15.2 2.1 3.2 5.08 4.49.71.31 1.26.49 1.69.63.71.23 1.36.2 1.87.12.57-.09 1.76-.72 2.01-1.41.25-.7.25-1.29.17-1.41-.07-.13-.27-.2-.57-.35zM12.04 21.8h-.01a9.8 9.8 0 0 1-5-1.37l-.36-.21-3.72.98 1-3.63-.24-.37a9.8 9.8 0 0 1-1.5-5.22c0-5.42 4.41-9.83 9.84-9.83 2.63 0 5.1 1.03 6.95 2.88a9.77 9.77 0 0 1 2.88 6.96c0 5.42-4.41 9.83-9.84 9.83zm8.37-18.2A11.75 11.75 0 0 0 12.04.13C5.5.13.18 5.45.18 12c0 2.09.55 4.13 1.59 5.93L.08 24l6.22-1.63a11.83 11.83 0 0 0 5.73 1.46h.01c6.54 0 11.86-5.32 11.87-11.87a11.8 11.8 0 0 0-3.5-8.37z"/></svg>Konsultasi dulu!</a>

diff --git a/src/schoboot.css b/src/schoboot.css
@@ -759,3 +759,7 @@ footer p + p{margin-top:6px}
 .mimpi__head{margin-bottom:26px}
 .mimpi__head .lead{max-width:640px}
 .dest__h{font-size:clamp(22px,5.6vw,30px);line-height:1.2;font-weight:700;letter-spacing:-.02em;color:var(--ink);margin:0}
+
+/* Hero v4: baris kedua headline lebih kecil (kalimat panjang) */
+.h1 .line--sm{font-size:.6em;line-height:1.12;margin-top:.35em;max-width:16em;margin-left:auto;margin-right:auto}
+.rm-hint{justify-content:flex-start}
